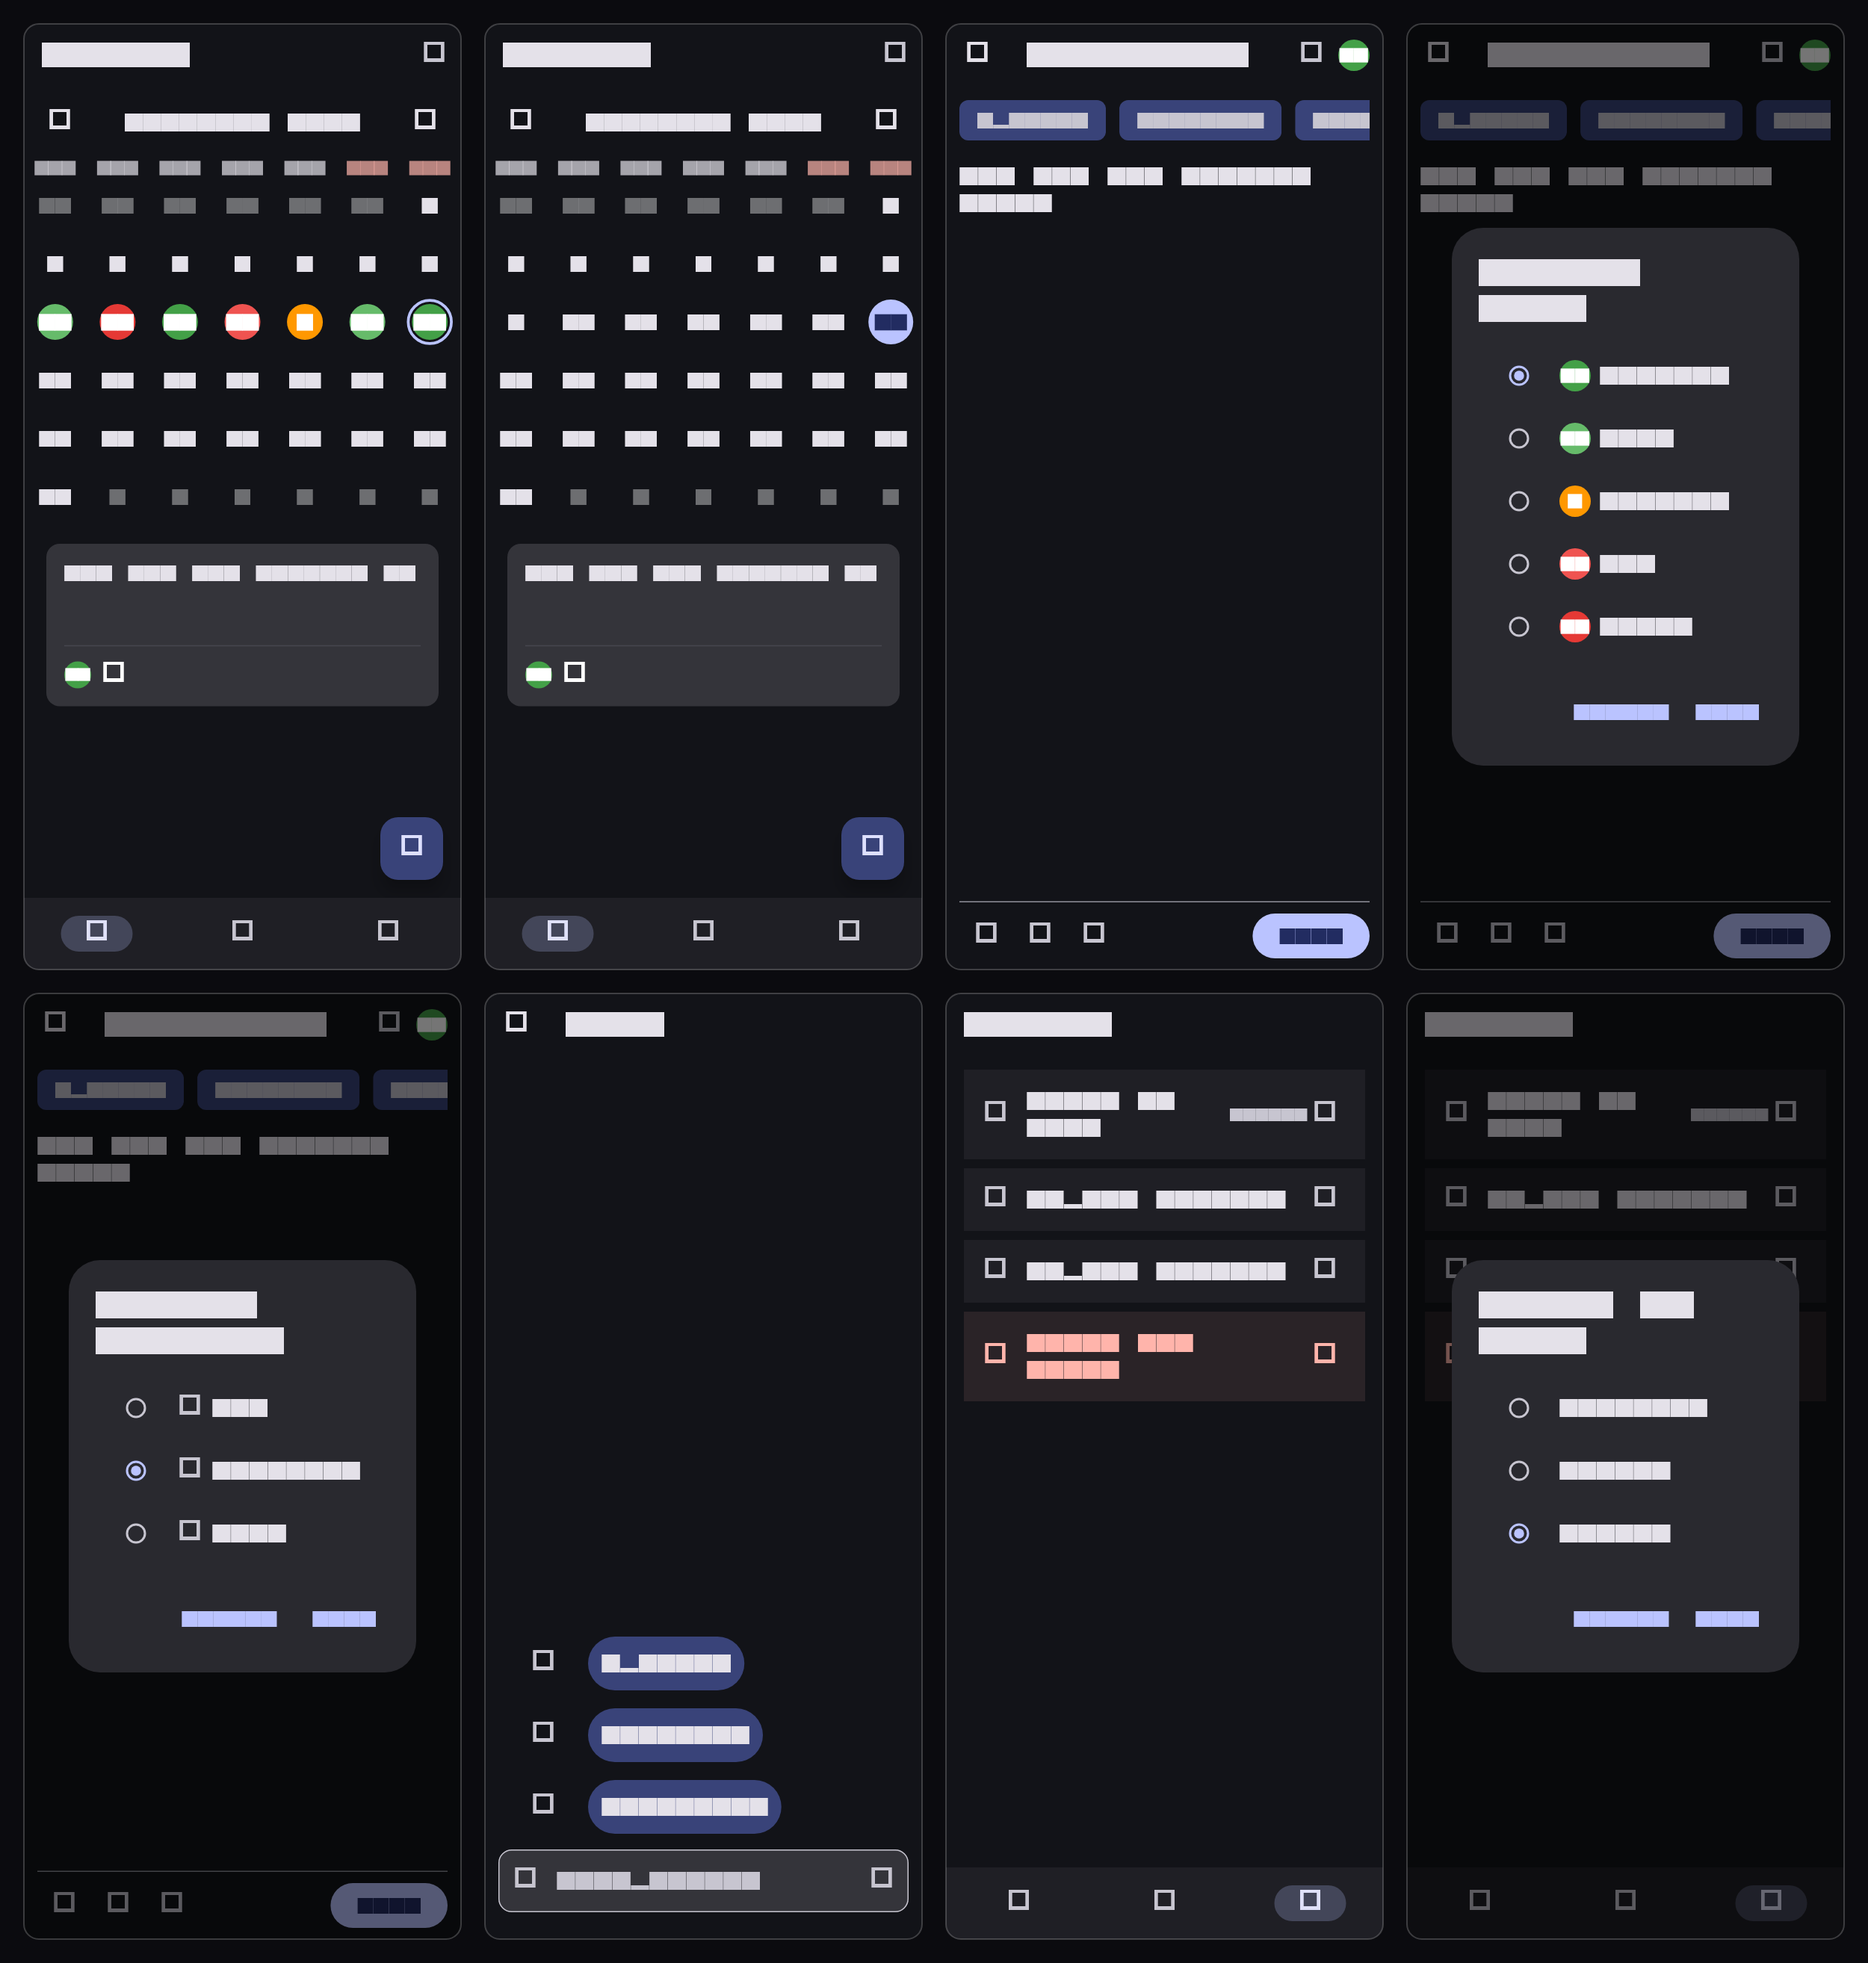
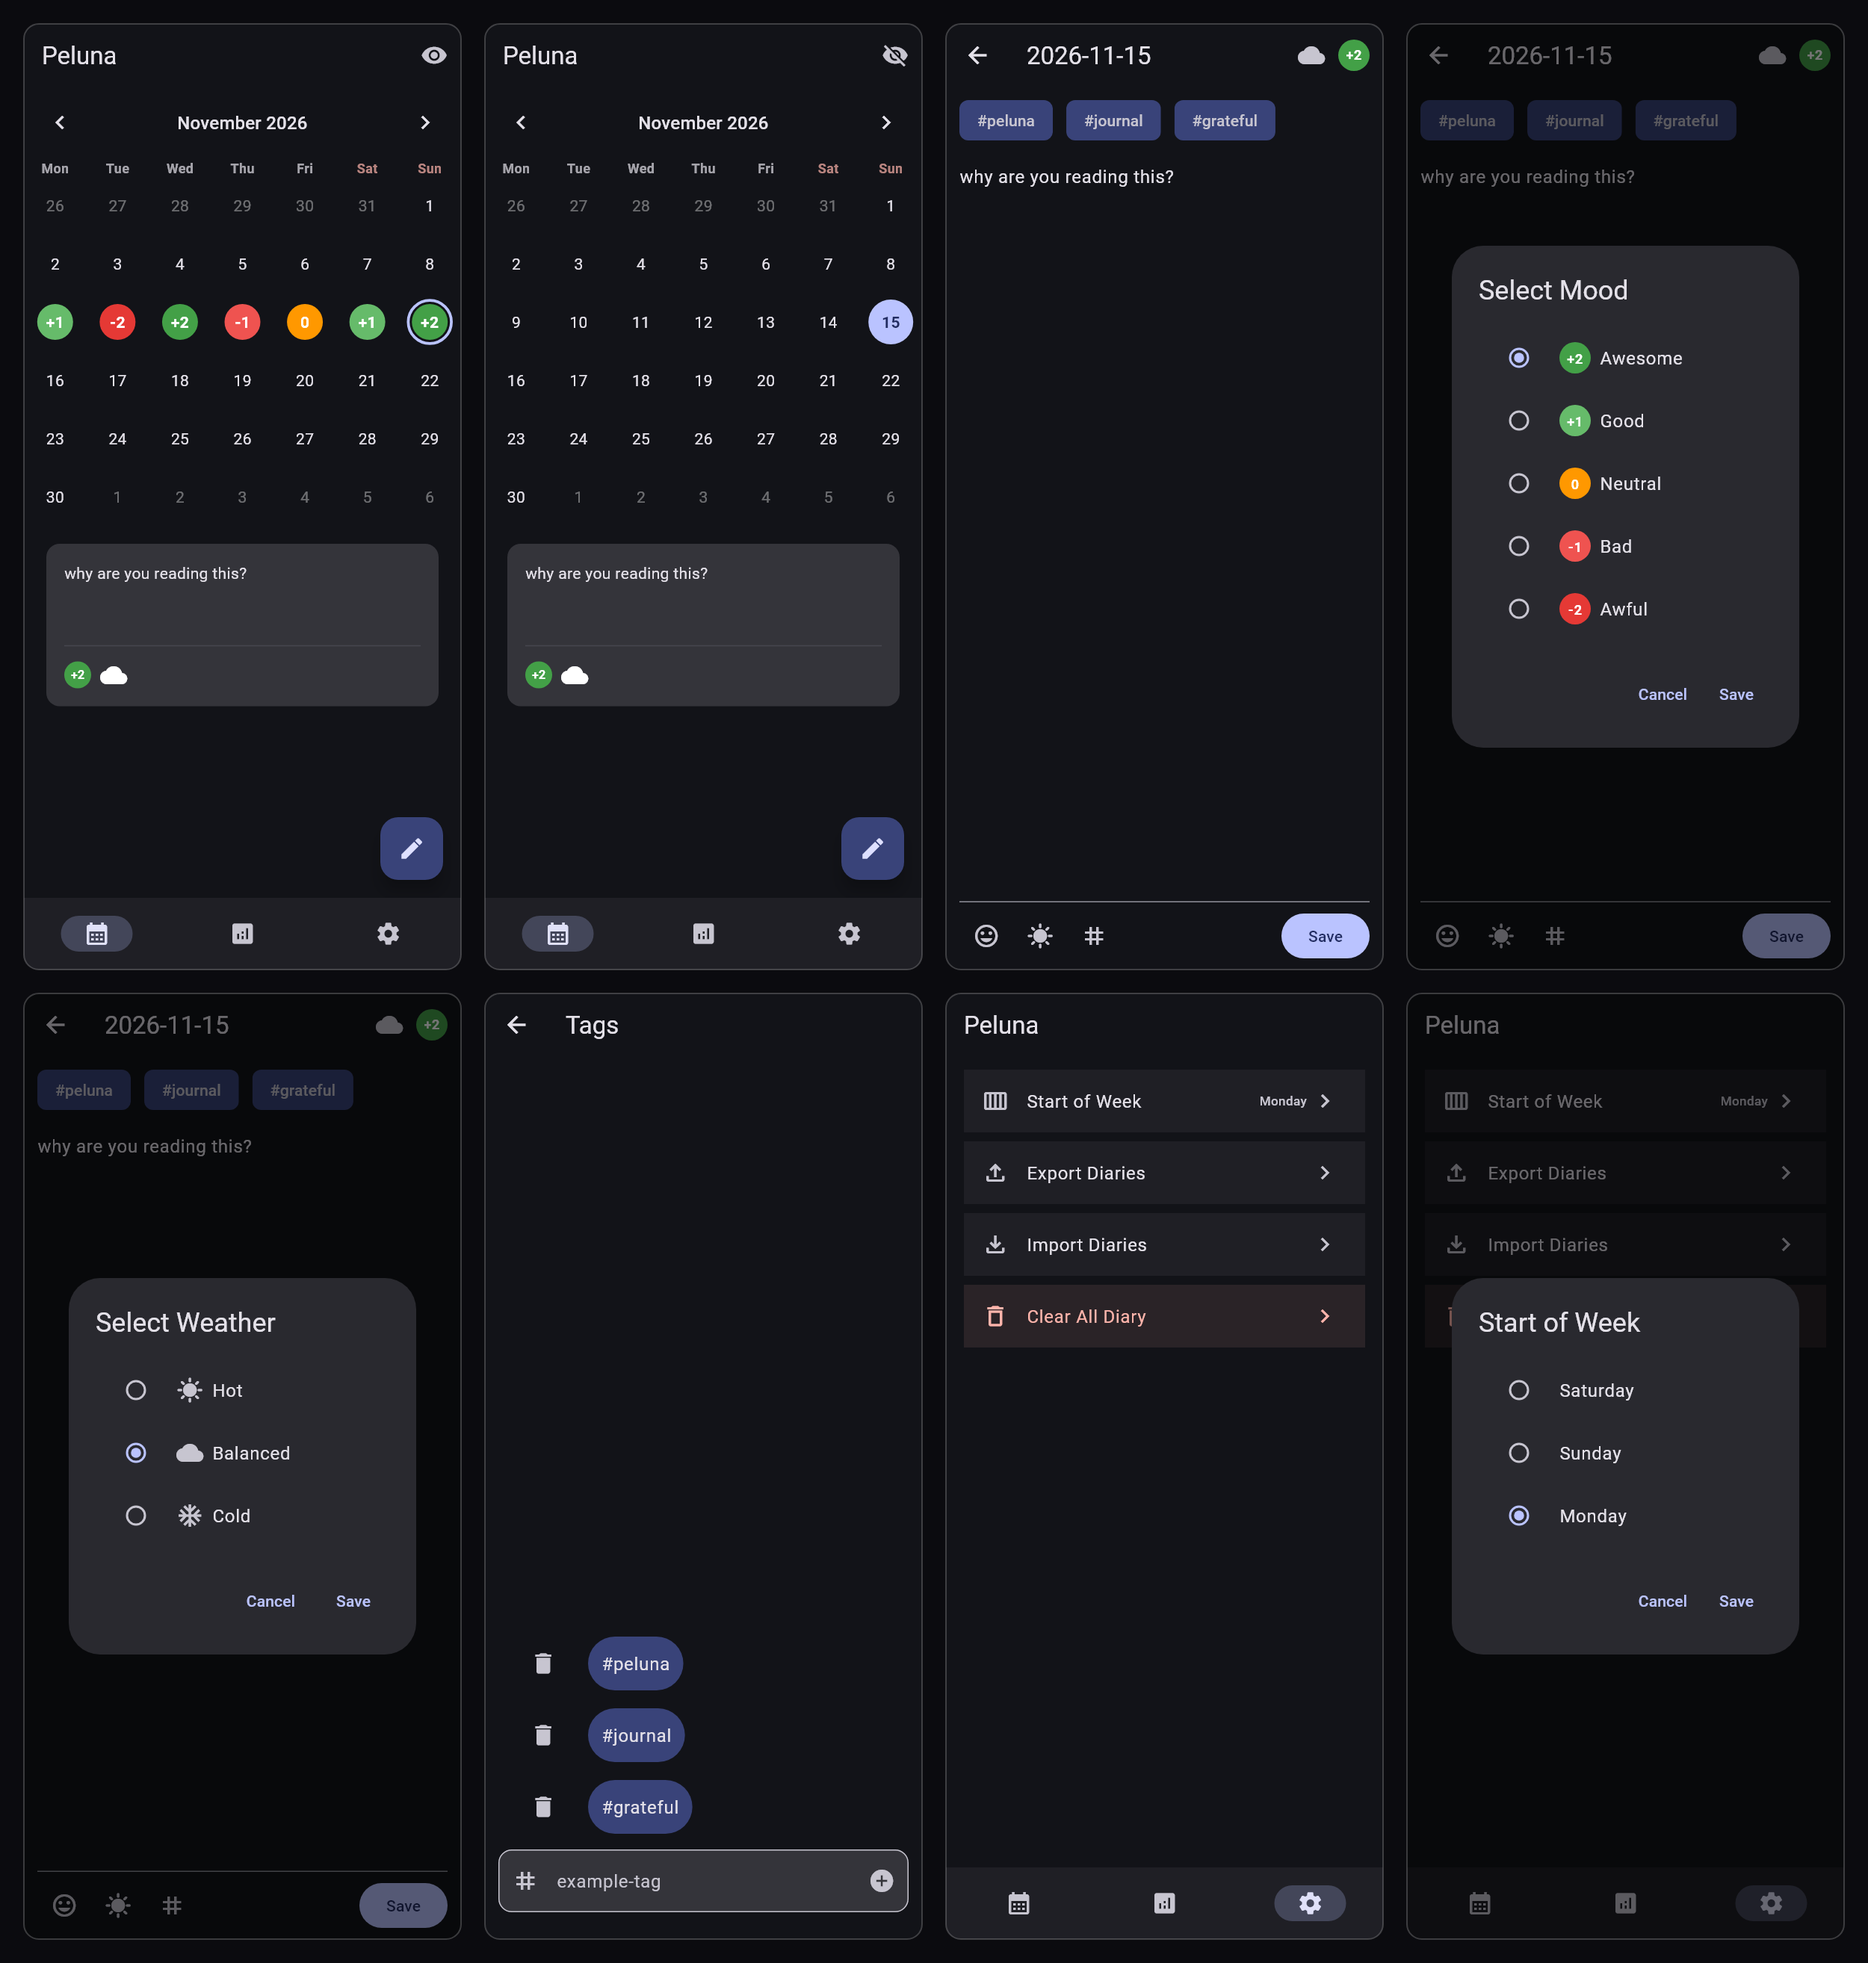
fix(gallery): load SDK fonts case-insensitively
Linux and macOS SDKs ship Roboto/MaterialIcons with PascalCase file names, so the lowercase-only lookup skipped every font and CI committed a gallery full of tofu boxes. Match names case-insensitively and fail loudly when the fonts are missing.

diff --git a/tool/generate_gallery.dart b/tool/generate_gallery.dart
@@ -317,30 +317,48 @@ Future<void> _loadSdkFonts() async {
     );
   }
 
-  final roboto = FontLoader('Roboto');
-  for (final name in const [
-    'roboto-regular.ttf',
-    'roboto-medium.ttf',
-    'roboto-bold.ttf',
-    'roboto-italic.ttf',
-  ]) {
-    final file = File('${fontsDir.path}${Platform.pathSeparator}$name');
-    if (file.existsSync()) {
-      final bytes = await file.readAsBytes();
-      roboto.addFont(Future.value(ByteData.sublistView(bytes)));
+  // SDK font file names differ by platform (lowercase on Windows, PascalCase
+  // on Linux/macOS), so match case-insensitively.
+  final files = fontsDir.listSync().whereType<File>().toList(growable: false);
+
+  File? find(String name) {
+    final lower = name.toLowerCase();
+    for (final file in files) {
+      if (file.uri.pathSegments.last.toLowerCase() == lower) return file;
     }
+    return null;
+  }
+
+  final robotoFiles = [
+    find('roboto-regular.ttf'),
+    find('roboto-medium.ttf'),
+    find('roboto-bold.ttf'),
+    find('roboto-italic.ttf'),
+  ].whereType<File>().toList();
+
+  if (robotoFiles.isEmpty) {
+    throw StateError(
+      'No Roboto fonts found in ${fontsDir.path}. '
+      'Found ${files.length} files instead.',
+    );
+  }
+
+  final roboto = FontLoader('Roboto');
+  for (final file in robotoFiles) {
+    final bytes = await file.readAsBytes();
+    roboto.addFont(Future.value(ByteData.sublistView(bytes)));
   }
   await roboto.load();
 
-  final iconFile = File(
-    '${fontsDir.path}${Platform.pathSeparator}materialicons-regular.otf',
-  );
-  if (iconFile.existsSync()) {
-    final icons = FontLoader('MaterialIcons');
-    final bytes = await iconFile.readAsBytes();
-    icons.addFont(Future.value(ByteData.sublistView(bytes)));
-    await icons.load();
+  final iconFile = find('materialicons-regular.otf');
+  if (iconFile == null) {
+    throw StateError('Material Icons font not found in ${fontsDir.path}.');
   }
+
+  final icons = FontLoader('MaterialIcons');
+  final bytes = await iconFile.readAsBytes();
+  icons.addFont(Future.value(ByteData.sublistView(bytes)));
+  await icons.load();
 }
 
 Directory? _findMaterialFontsDir() {
